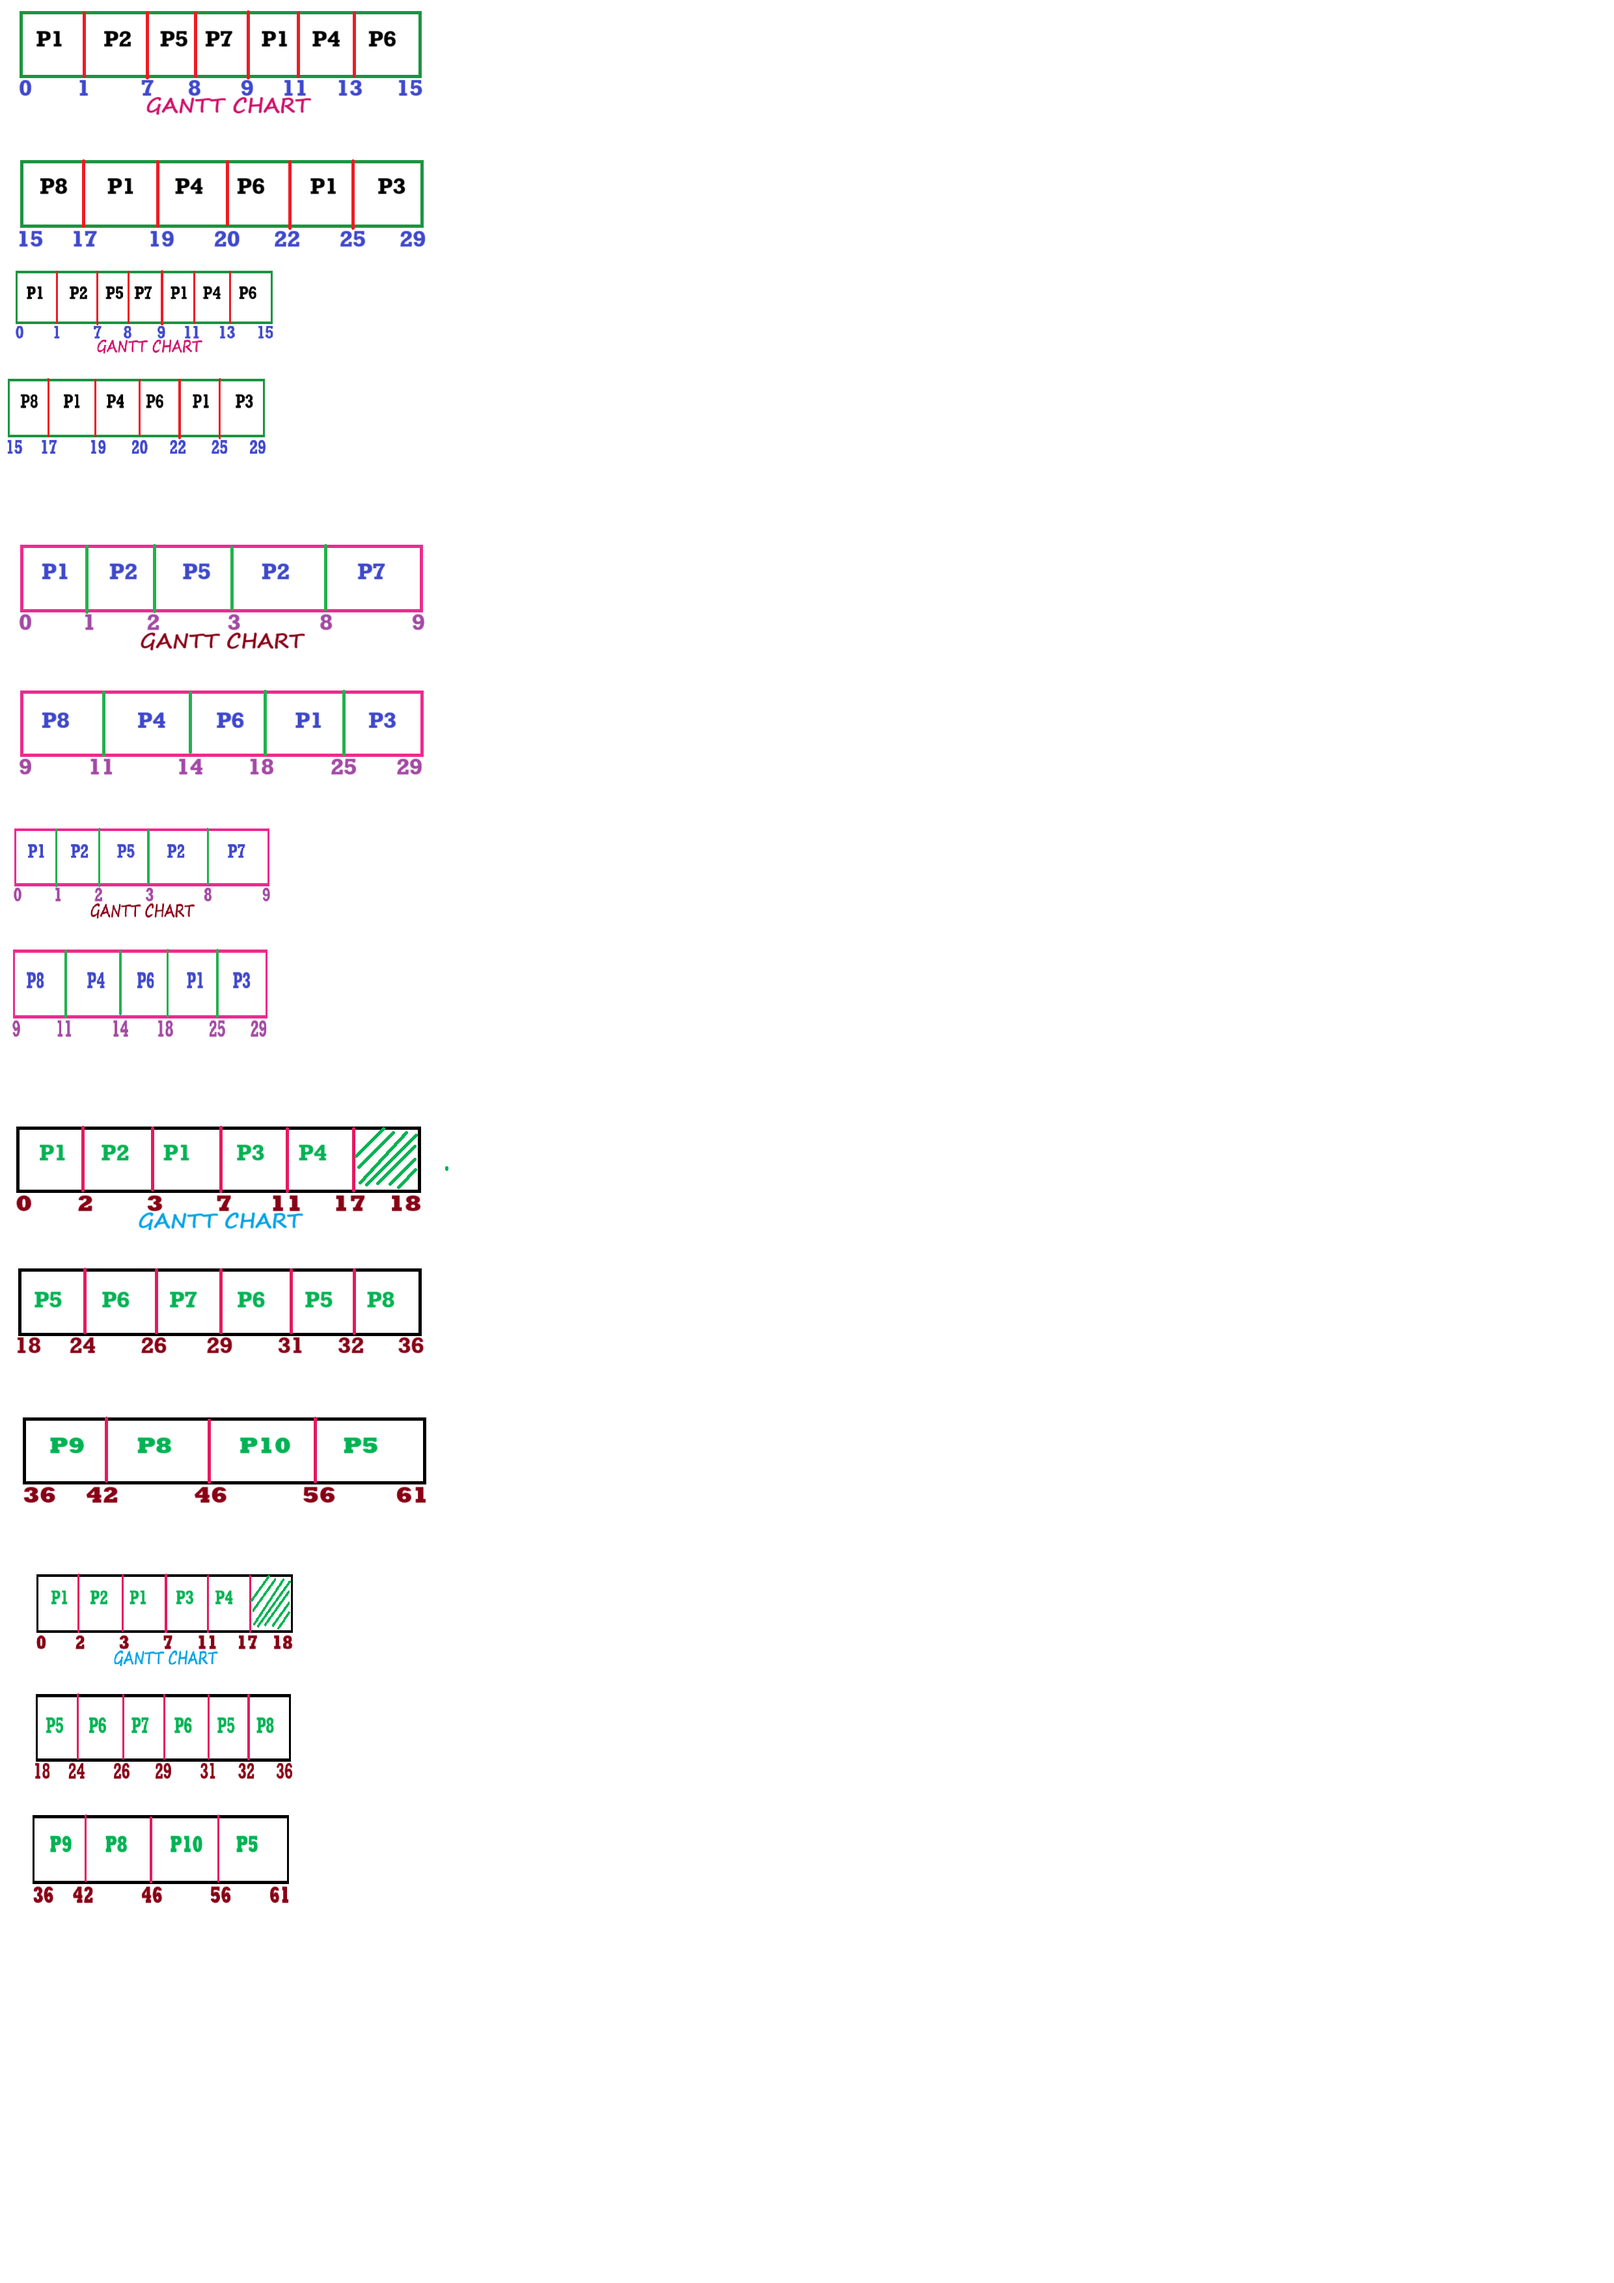
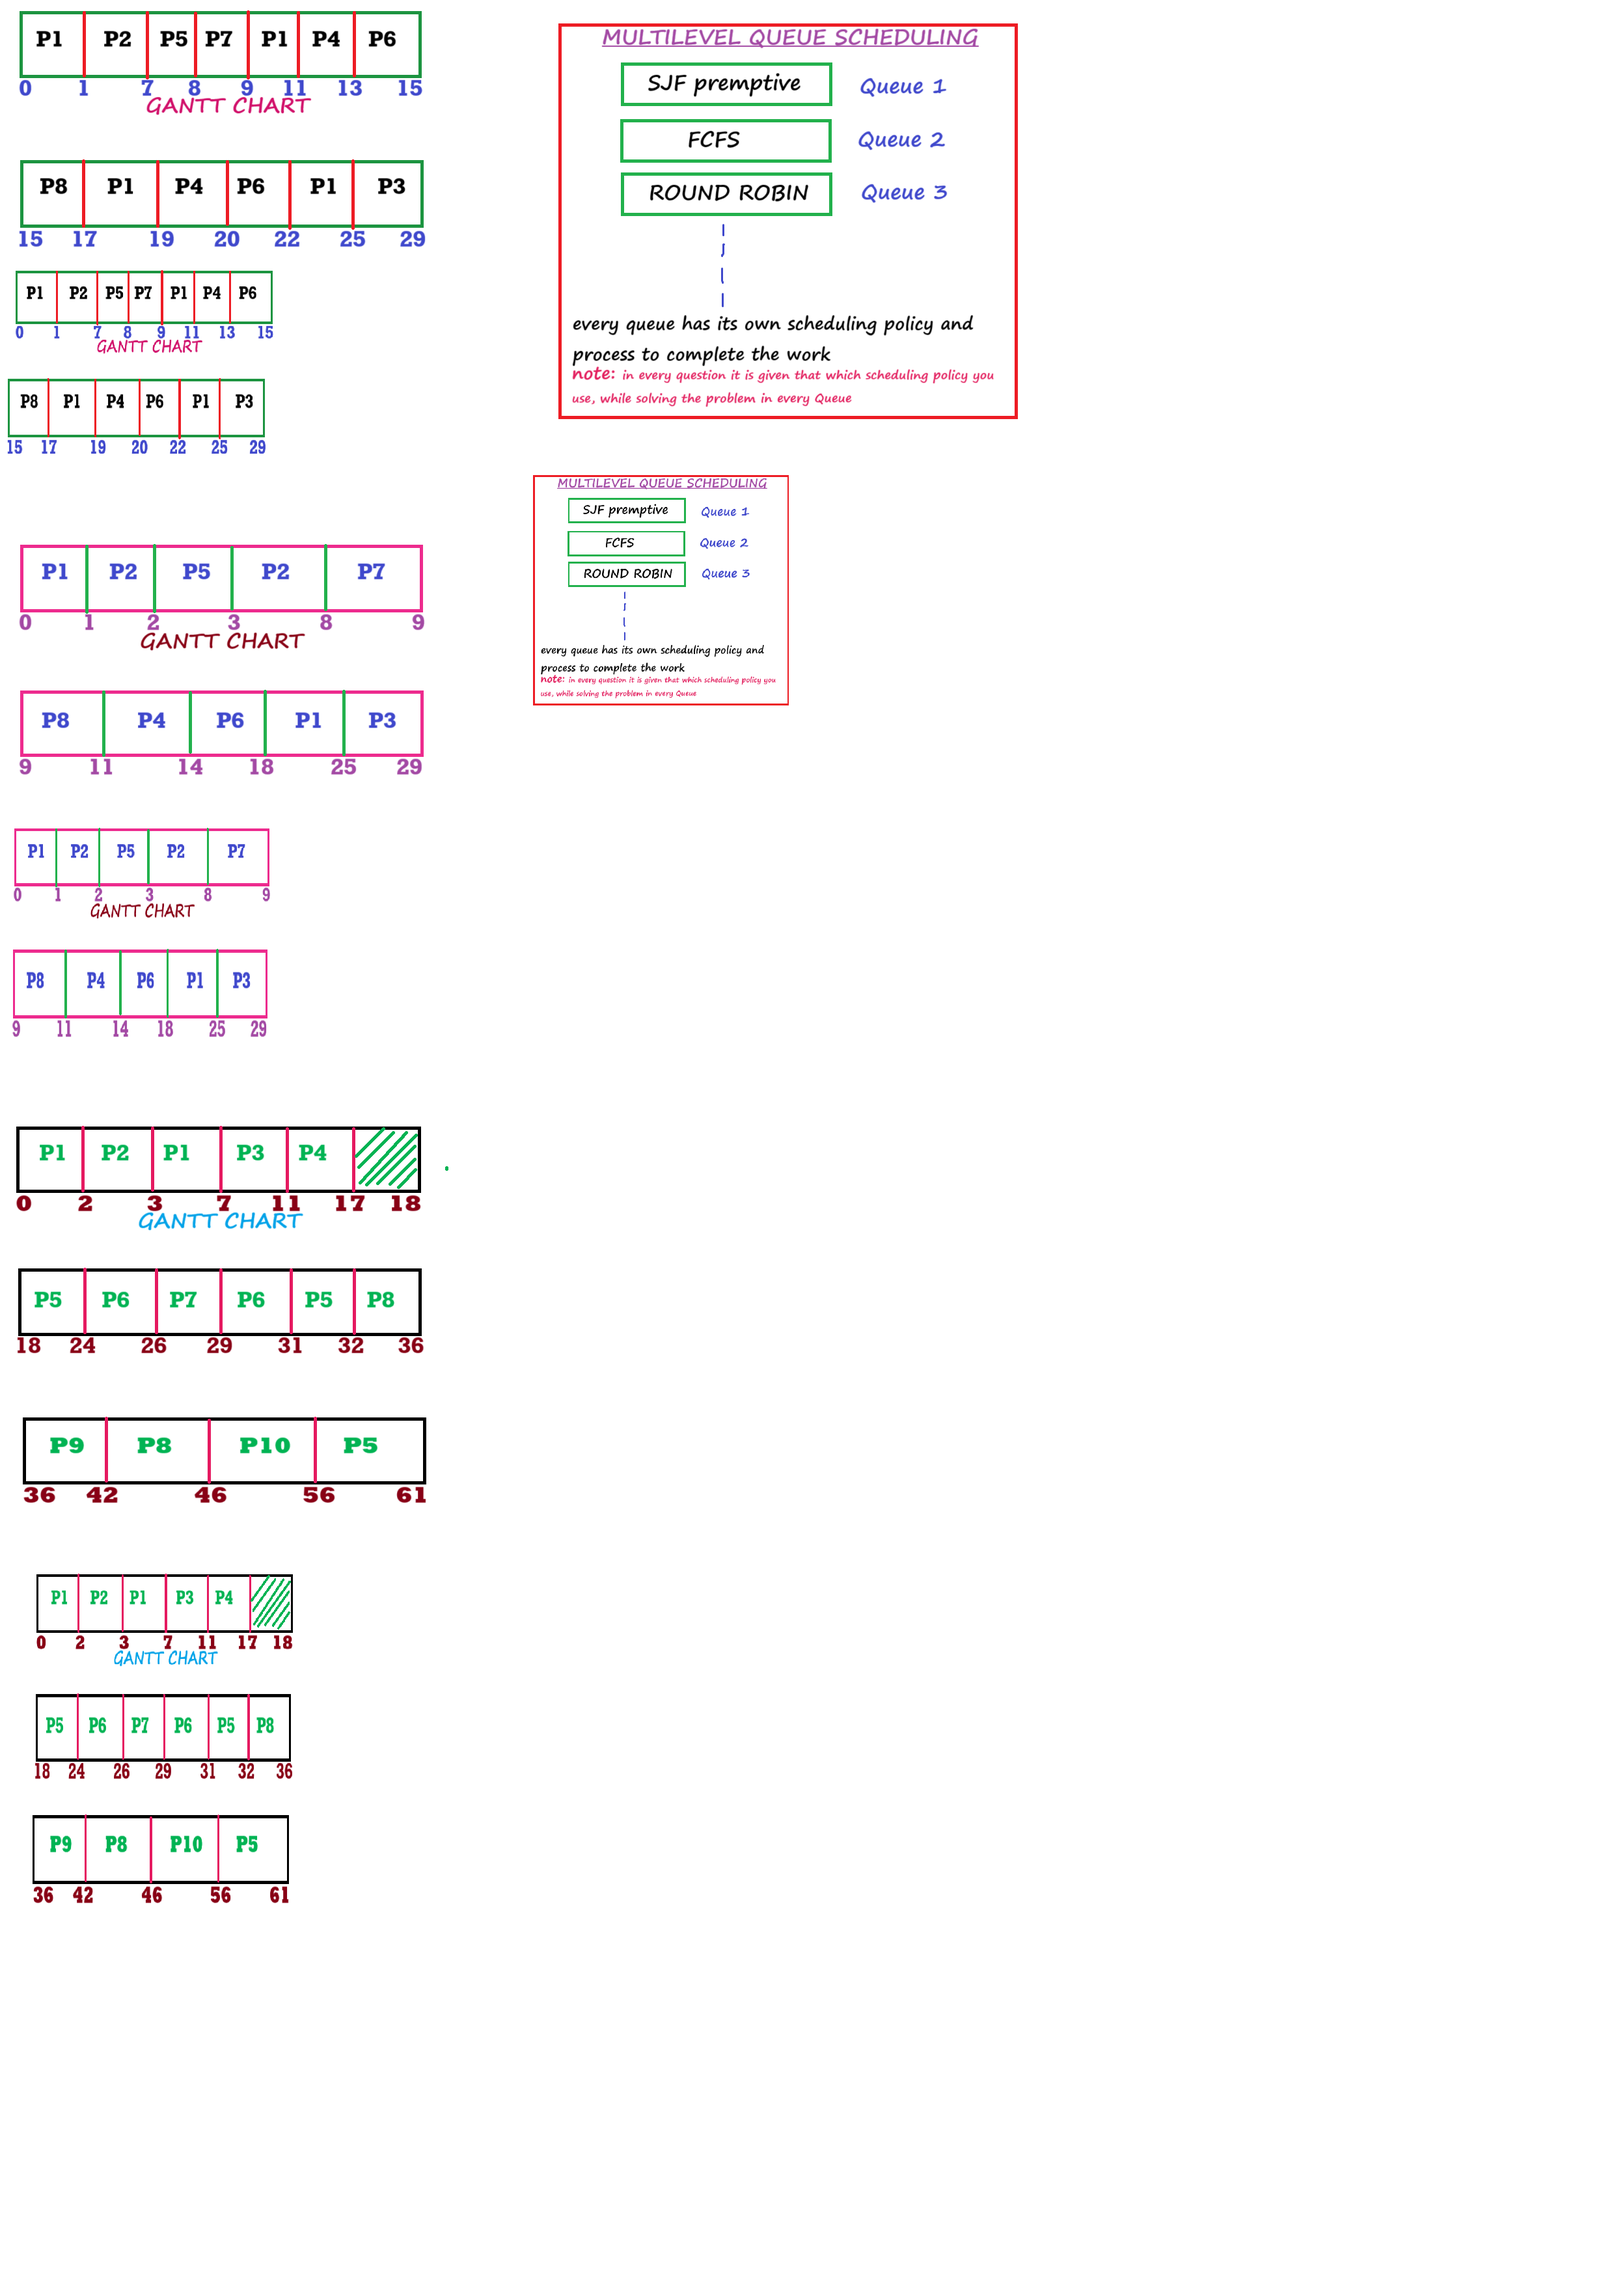
sitemap updated

Changed region(s): [[0.3726, 0.0, 0.621, 0.0932], [0.3415, 0.1243, 0.621, 0.2486], [0.3415, 0.2796, 0.4657, 0.3107]]

diff --git a/sub_modules/os/scheduling_algorithms/MLQS.html b/sub_modules/os/scheduling_algorithms/MLQS.html
@@ -22,6 +22,11 @@
         width: 630px;
         object-fit: none;
       }
+      #def1 {
+        width: 710px;
+        height: 615px;
+        object-fit: none;
+      }
 
       #MLQS1_1 {
         object-position: -23px -7px;
@@ -44,6 +49,9 @@
       #MLQS3_3 {
         object-position: -30px -2157px;
       }
+      #def1 {
+        object-position: -854px -33px;
+      }
 
       @media (width<=770px) {
         #MLQS1_1,
@@ -55,6 +63,10 @@
         #MLQS3_3 {
           height: 150px;
           width: 400px;
+        }
+        #def1 {
+          width: 400px;
+          height: 360px;
         }
         #MLQS1_1 {
           object-position: -22px -404px;
@@ -76,6 +88,9 @@
         }
         #MLQS3_3 {
           object-position: -48px -2785px;
+        }
+        #def1 {
+          object-position: -817px -730px;
         }
       }
     </style>
@@ -122,7 +137,146 @@
 
     <main>
       <div class="container">
-        <h2>
+        <br />
+        <div>
+          <a
+            href="#fstque"
+            class="btn btn-primary btn-lg active"
+            role="button"
+            aria-pressed="true"
+            >Jump To Question</a
+          >
+          <br /><br />
+          <h2>Multilevel Queue Scheduling Algorithm In Operating System</h2>
+
+          <p>
+            In the Multilevel Queue Scheduling algorithm, the processes are
+            divided into multiple queues based on specific characteristics, such
+            as process priority or memory requirements. Each queue has its own
+            scheduling algorithm, which could be First-Come-First-Serve (FCFS),
+            Shortest Job First (SJF), or Round Robin (RR), depending on the type
+            of processes it holds. This algorithm is typically used in scenarios
+            where different types of processes need to be managed independently
+            and efficiently.
+          </p>
+          <img
+            alt="multilevel queue scheduling definiton"
+            id="def1"
+            srcset=""
+          />
+
+          <h2>Method for Multilevel Queue Scheduling</h2>
+          <ul>
+            <li>
+              Step 1: Divide the processes into multiple queues based on
+              priority or process type.
+            </li>
+            <li>
+              Step 2: Assign a scheduling algorithm to each queue according to
+              the specific requirements of the processes in that queue.
+            </li>
+            <li>
+              Step 3: Define the priority levels among queues, determining which
+              queue should be given preference when multiple queues have
+              processes ready to run.
+            </li>
+            <li>
+              Step 4: If a process completes its execution in its assigned
+              queue, it is removed; otherwise, it may be moved to another queue
+              as per the system’s defined rules.
+            </li>
+            <li>
+              Step 5: Repeat the above steps until all processes in all queues
+              are completed.
+            </li>
+          </ul>
+
+          <h2>Advantages and Disadvantages of Multilevel Queue Scheduling</h2>
+          <table border="1" class="table table-bordered">
+            <tr>
+              <th>Advantages</th>
+              <th>Disadvantages</th>
+            </tr>
+            <tr>
+              <td>
+                Enables specific scheduling policies for different types of
+                processes, improving efficiency.
+              </td>
+              <td>
+                Static division of queues may lead to underutilization of
+                resources if queues are imbalanced.
+              </td>
+            </tr>
+            <tr>
+              <td>
+                Allows easy prioritization of system processes over user
+                processes, enhancing system performance.
+              </td>
+              <td>
+                Higher-priority queues can lead to starvation of processes in
+                lower-priority queues.
+              </td>
+            </tr>
+            <tr>
+              <td>
+                Each queue can be customized to meet specific needs, offering
+                flexibility.
+              </td>
+              <td>
+                Complex to implement and maintain, especially with a large
+                number of queues and processes.
+              </td>
+            </tr>
+            <tr>
+              <td>
+                Reduces the turnaround time for certain high-priority processes.
+              </td>
+              <td>
+                Lack of interaction among queues can cause inefficiencies in
+                overall CPU utilization.
+              </td>
+            </tr>
+            <tr>
+              <td>Supports separation of long-term and short-term tasks.</td>
+              <td>
+                Static assignment of processes means changes to process
+                priorities are challenging.
+              </td>
+            </tr>
+            <tr>
+              <td>
+                Helps manage processes that require different resources
+                effectively.
+              </td>
+              <td>
+                Once a process is assigned to a queue, it generally cannot be
+                moved, reducing adaptability.
+              </td>
+            </tr>
+          </table>
+
+          <h2>
+            Why Multilevel Queue Scheduling Is Better than Other Scheduling
+            Algorithms?
+          </h2>
+
+          <p>
+            Multilevel Queue Scheduling is particularly beneficial in
+            environments where different categories of tasks require distinct
+            scheduling policies. By allowing separate scheduling algorithms per
+            queue and facilitating priority-based processing, it can deliver
+            more efficient performance compared to a single algorithm for all
+            processes. This makes it highly suitable for systems requiring quick
+            responses for specific types of processes, as well as in multiuser
+            environments, where prioritizing system tasks can help maintain
+            system stability and responsiveness.
+          </p>
+        </div>
+
+        <br />
+        <br />
+
+        <h2 id="fstque">
           Question 1 : find the average Turn Around Time and Waiting Time of
           following processes using MLQS(MULTILEVEL QUEUE SCHDULING) process
           scheduling algorithm? Consider the following processes with their

diff --git a/sub_modules/os/operating_System_Topics.html b/sub_modules/os/operating_System_Topics.html
@@ -141,7 +141,6 @@
       </div>
     </div>
     <!-- another type card end -->
-
     <script type="text/javascript" src="/hdr_ftr.js"></script>
   </body>
 </html>
